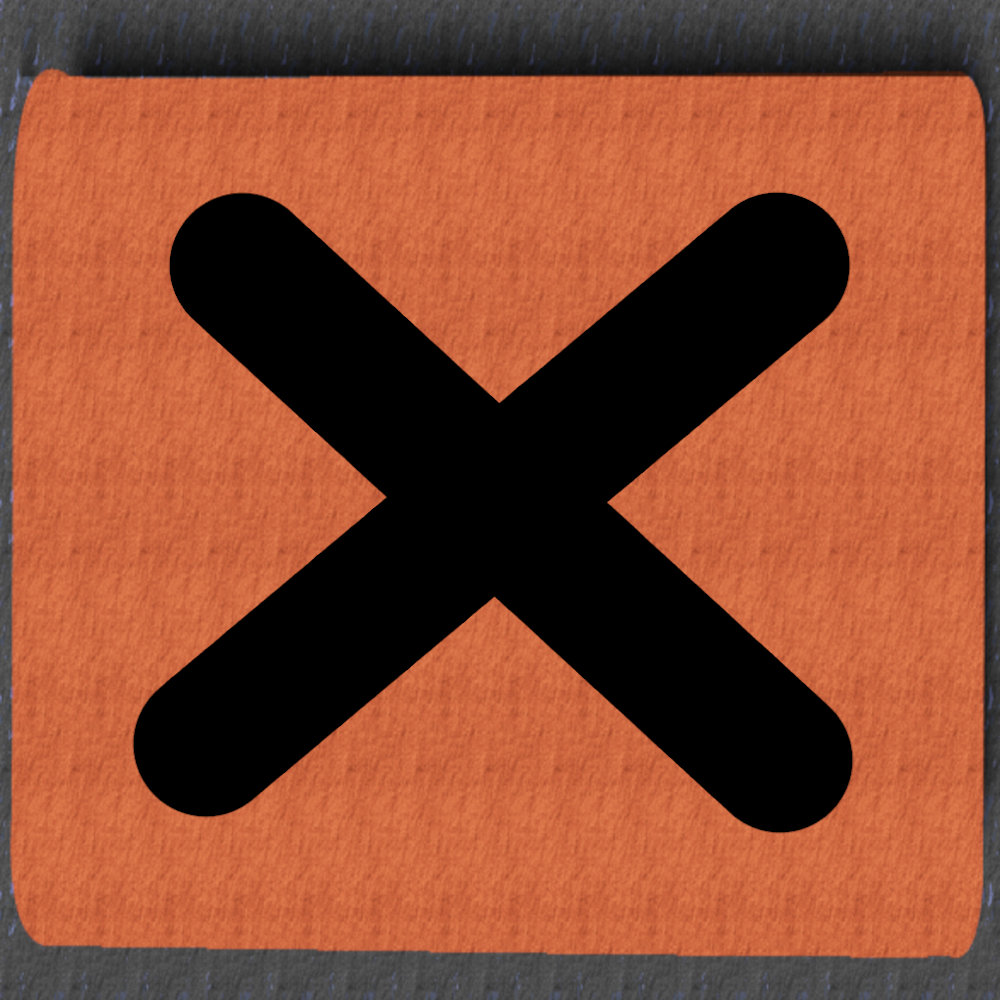
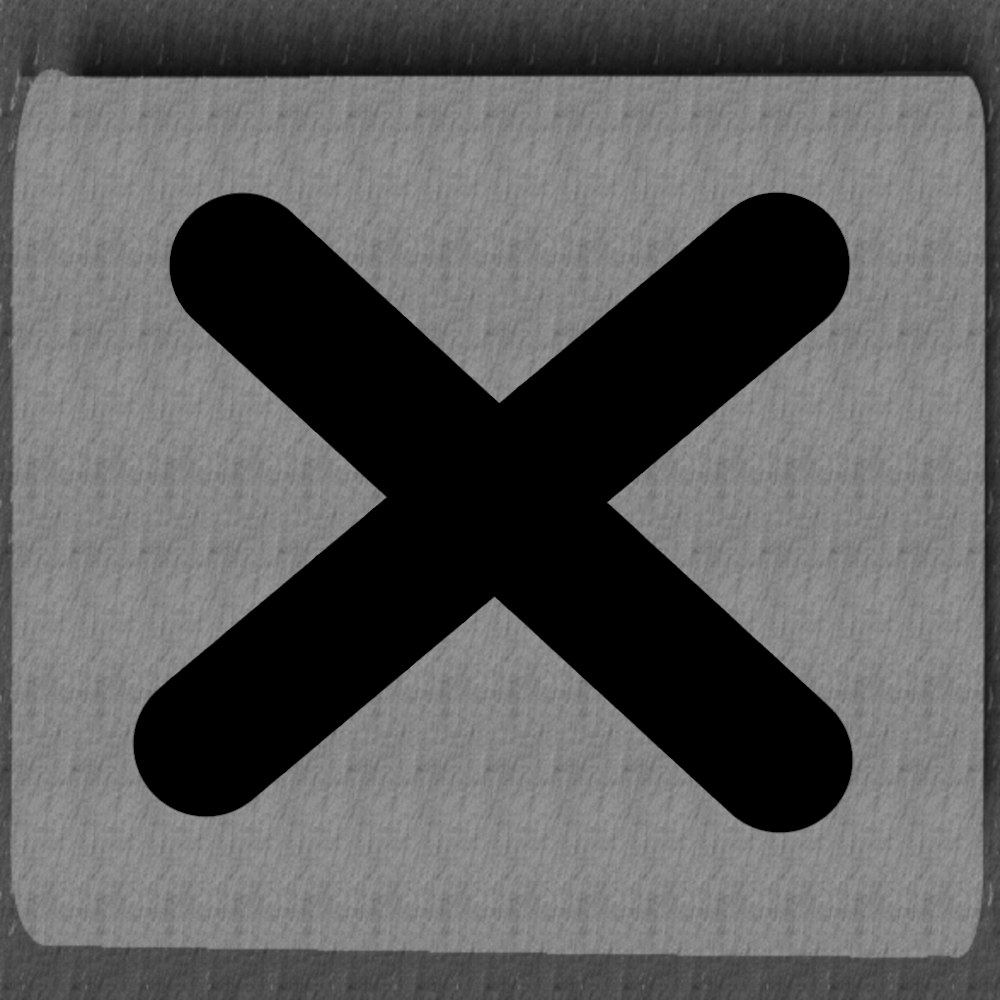
Briks are now grayscale

diff --git a/show_crypto_key.py b/show_crypto_key.py
@@ -26,7 +26,7 @@ class ShowCryptoKey (Screen):
         self.key_textbox = TextInput(text = key, size_hint = (1, 1))
         self.main_all_box.add_widget(self.key_textbox)
 
-        self.scroll_view = Label(size_hint = (1, 4), border = (0, 0, 0, 0), color = (0, 0, 0, 1), background_normal = "./images/brick.png", background_down = "./images/brick.png")
+        self.scroll_view = Button(size_hint = (1, 4), border = (0, 0, 0, 0), color = (0, 0, 0, 1), background_normal = "./images/brick.png", background_down = "./images/brick.png")
         self.main_all_box.add_widget(self.scroll_view)
 
         self.done_button = Button(size_hint = (1, 1), text = "Done", on_release = self.done, border = (0, 0, 0, 0), color = (0, 0, 0, 1), background_normal = "./images/brick.png", background_down = "./images/brick.png")
